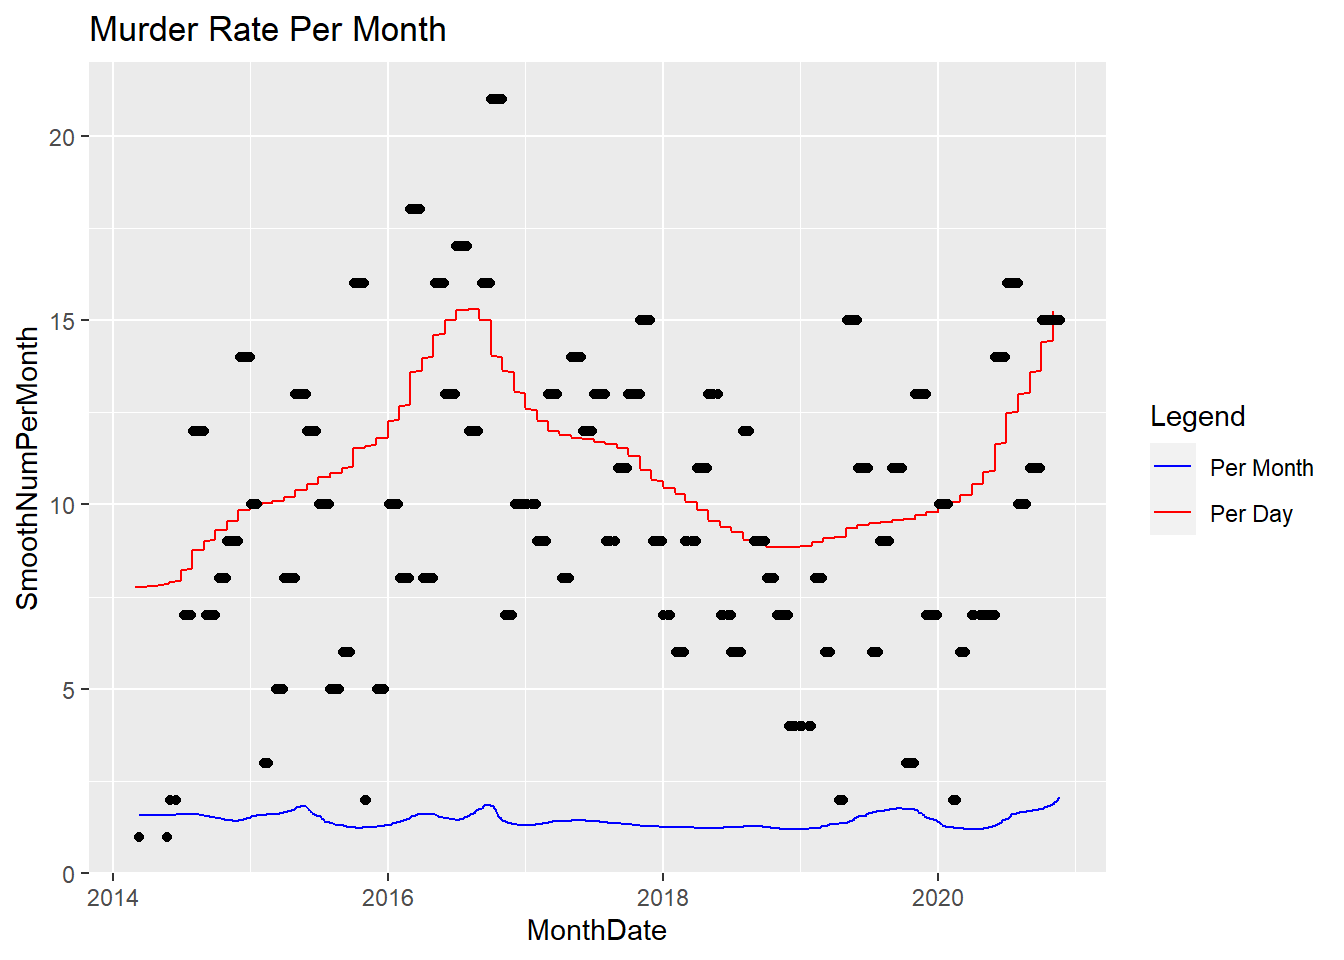
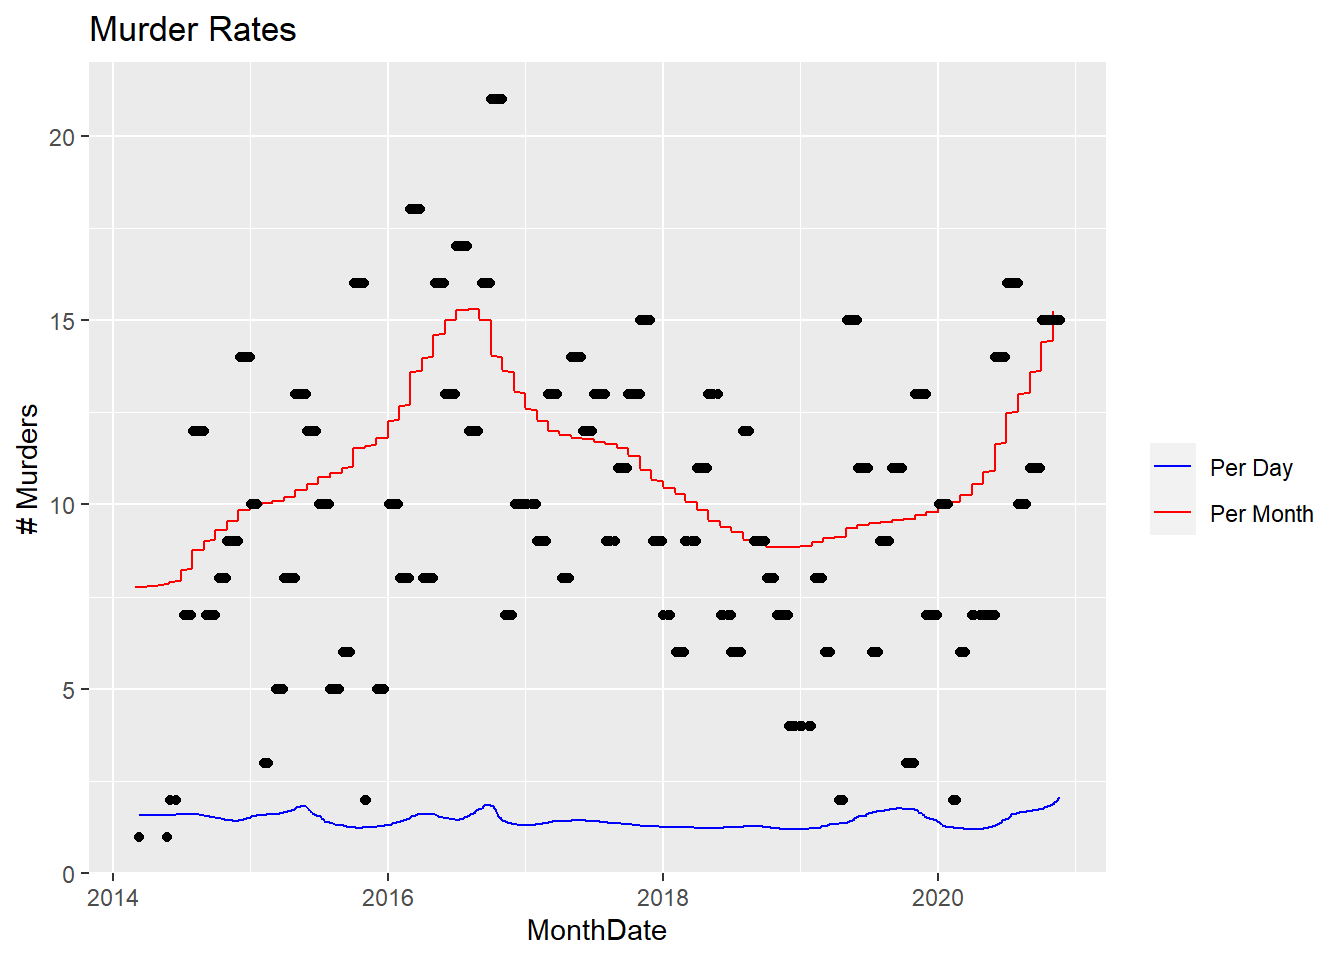
legend fix

diff --git a/content/post/2020-12-02-murder-rates-in-dallas/index.html b/content/post/2020-12-02-murder-rates-in-dallas/index.html
@@ -18,10 +18,11 @@ tags: []
 <pre><code>## [1] &quot;2020-12-02&quot;</code></pre>
 <p>Load data directly from DallasOpenData using Socrata API:</p>
 <pre class="r"><code>#PI &lt;- read.socrata(&quot;https://www.dallasopendata.com/resource/qv6i-rri7.csv&quot;)
-PI &lt;- readRDS(&quot;C:/Users/sconroy/Desktop/Debug/PoliceIncidents.RDS&quot;)
-setDT(PI)</code></pre>
+#PI &lt;- readRDS(&quot;C:/Users/sconroy/Desktop/Debug/PoliceIncidents.RDS&quot;)
+#setDT(PI)</code></pre>
 <p>First, let’s extract murder incidents by looking for “MURDER” or “HOMICIDE” in the officer’s incident description.</p>
-<pre class="r"><code>Murder &lt;- PI[grepl(&quot;MURDER&quot;,offincident) | grepl(&quot;HOMICIDE&quot;,offincident),]
+<pre class="r"><code>Murder &lt;- readRDS(&quot;C:/Users/sconroy/Desktop/Debug/Murder.RDS&quot;)
+#Murder &lt;- PI[grepl(&quot;MURDER&quot;,offincident) | grepl(&quot;HOMICIDE&quot;,offincident),]
 Murder[,Date := as.Date(substr(date1,1,10))]
 
 # Add Dates and Incidents / Day &amp; Month counts 
@@ -40,9 +41,9 @@ ggplot(Murder) +
     geom_line(aes(x = MonthDate,y = SmoothNumPerMonth,color = &quot;red&quot;)) + 
     geom_point(data = Murder,aes(x = Date,y = NumPerMonth)) + 
     geom_line(aes(x = Date,y = SmoothNumPerDay,color = &quot;blue&quot;)) +
-    ggtitle(&quot;Murder Rate Per Month&quot;) + 
-    scale_colour_manual(name = &#39;Legend&#39;, 
-                        values = c(&#39;blue&#39;=&#39;blue&#39;,&#39;red&#39;=&#39;red&#39;), labels = c(&#39;Per Month&#39;,&#39;Per Day&#39;))</code></pre>
+    ggtitle(&quot;Murder Rates&quot;) + ylab(&quot;# Murders&quot;) + 
+    scale_colour_manual(name = &#39;&#39;,values = c(&#39;blue&#39;=&#39;blue&#39;,&#39;red&#39;=&#39;red&#39;),
+                        labels = c(&#39;Per Day&#39;,&#39;Per Month&#39;))</code></pre>
 <p><img src="index_files/figure-html/Smooth%20Data-1.png" width="672" /></p>
 <p>Yes - it definitely looks like there’s an uptick in the last few months of 2020!</p>
 </div>
